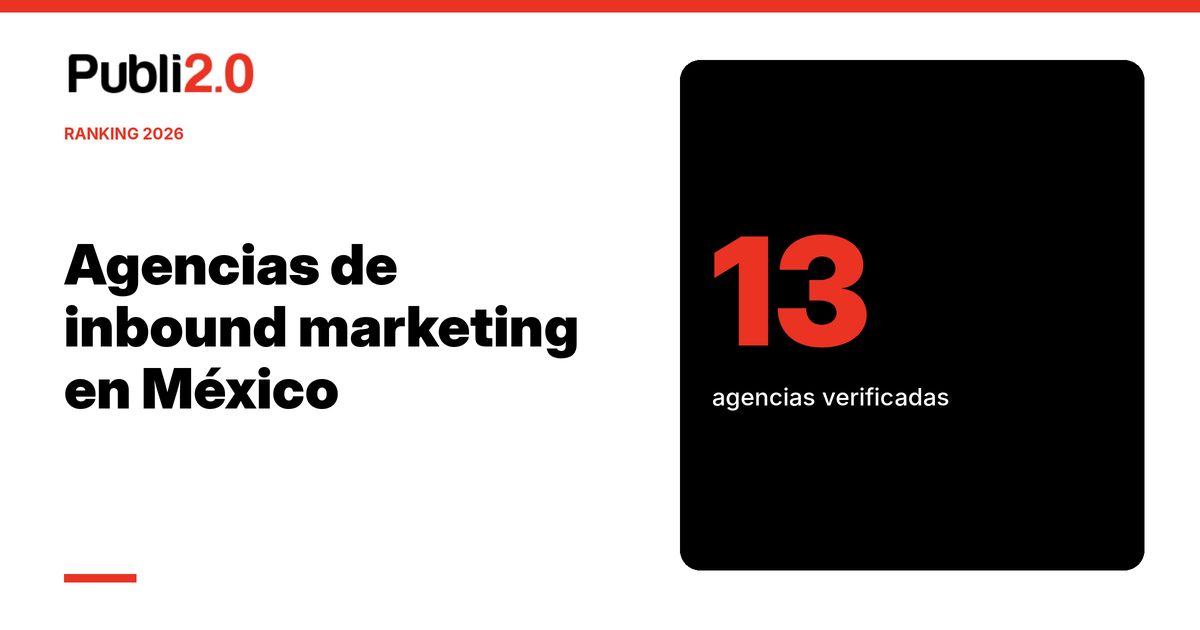
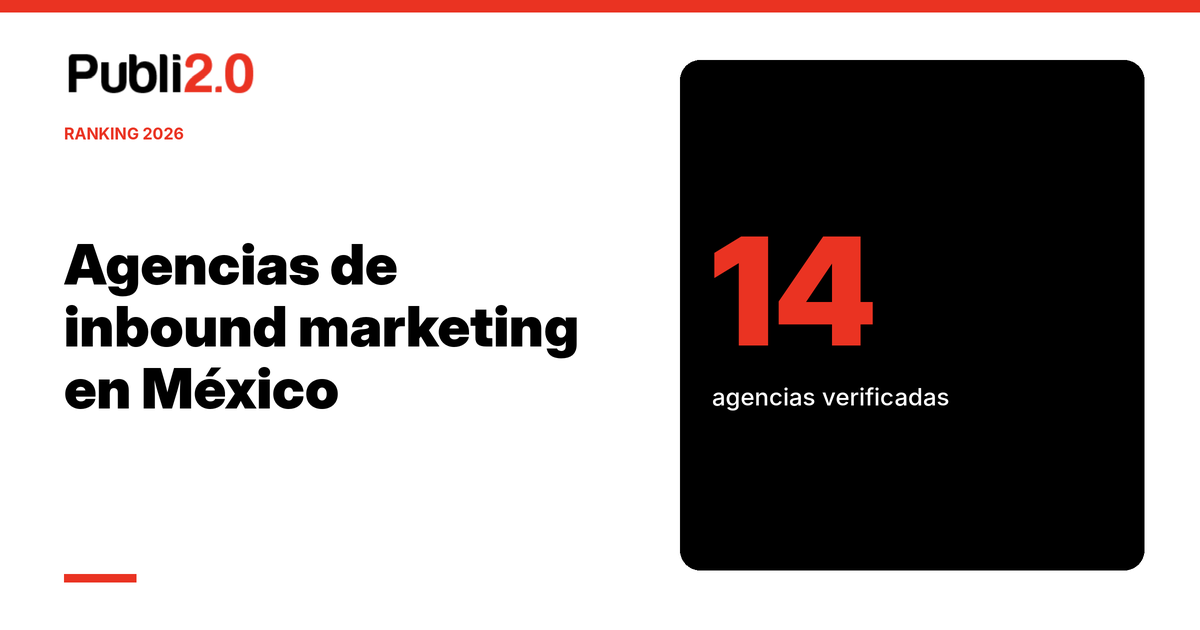
Ranking inbound México: agrega Inbound México (14 agencias)
Nuevo grupo de agencias de inbound agnósticas de plataforma, con
Inbound México. Actualiza título, extracto, resumen, tabla, FAQ y
portada. Corrige el conteo de partners en el resumen (11, no 10).

Claude-Session: https://claude.ai/code/session_0138o7zAsczbeHHxFBvC8f1p

Changed region(s): [[0.6475, 0.3619, 0.74, 0.573]]

diff --git a/content/rankings/agencias-inbound-marketing-mexico.md b/content/rankings/agencias-inbound-marketing-mexico.md
@@ -1,9 +1,9 @@
 ---
-title: "Agencia de inbound marketing en México: 13 opciones verificadas 2026"
+title: "Agencia de inbound marketing en México: 14 opciones verificadas 2026"
 slug: agencias-inbound-marketing-mexico
 type: post
 status: publish
-excerpt: "¿Buscas agencia de inbound marketing en México? 13 agencias verificadas en el directorio de HubSpot, qué incluye un retainer y cuándo no te conviene."
+excerpt: "¿Buscas agencia de inbound marketing en México? 14 agencias verificadas, con y sin HubSpot, qué incluye un retainer y cuándo no te conviene."
 categories: [rankings]
 tags: [inbound marketing, hubspot, agencias de marketing digital, marketing b2b, automatización de marketing]
 palabra_clave: "agencia de inbound marketing mexico"
@@ -11,7 +11,7 @@ portada: plantilla
 featured_image: images/agencias-inbound-marketing-mexico-portada.png
 featured_alt: "Ranking 2026 de agencias de inbound marketing en México"
 portada_kicker: "RANKING 2026"
-portada_stat: "13"
+portada_stat: "14"
 portada_stat_label: "agencias verificadas"
 ---
 
@@ -23,7 +23,7 @@ Aquí no te voy a decir cuál es "la mejor". Te voy a decir cuáles existen de v
 
 <div class="p20-tldr" markdown="1">
 **Si solo tienes 30 segundos:**
-- Seleccionamos 13 agencias con operación comprobable en México: 10 partners de HubSpot con perfil activo en su directorio oficial y 2 agencias de marketing digital con oficina en CDMX y área de automatización.
+- Seleccionamos 14 agencias con operación comprobable en México: 11 partners de HubSpot con perfil activo en su directorio oficial, 1 agencia de inbound agnóstica de plataforma y 2 agencias de marketing digital con oficina en CDMX y área de automatización.
 - El nivel de partner (Gold, Platinum, Diamond, Elite) mide ventas y retención de clientes en HubSpot, [según las reglas del propio programa](https://www.hubspot.com/partners/how-tiers-work?cid=482). No mide creatividad ni resultados de tu negocio.
 - Un retainer de inbound tiene sentido si vendes algo con ciclo de compra largo y puedes sostener contenido varios meses. Si necesitas ventas la semana que entra, no es tu herramienta.
 - El orden dentro de cada grupo es alfabético. Nadie pagó por aparecer.
@@ -152,6 +152,19 @@ Agencia con oficinas en Ciudad de México y Salamanca, España, además de Guate
 - **Ideal para:** empresas que quieren inbound con peso fuerte en posicionamiento orgánico
 - **Sitio:** [smartupdigital.com](https://smartupdigital.com/)
 
+## Agencias de inbound agnósticas de plataforma
+
+No todo el inbound se hace en HubSpot. Si ya tienes un CRM o un CMS que funciona (o no quieres amarrarte a una licencia), te conviene una agencia que aplique la metodología sobre las herramientas que ya pagas.
+
+### Inbound México
+
+Agencia mexicana de inbound marketing que trabaja con la metodología inbound sin casarse con una plataforma: según [su sitio](https://www.inbound.com.mx/), opera el CMS y el CRM que el cliente ya tiene o el que mejor le quede, en lugar de venderle una licencia. Publica un blog con más de 900 recursos sobre inbound, SEO y estrategia digital, y ofrece una primera sesión de asesoría gratuita, según su [página de contacto](https://www.inbound.com.mx/contacto/).
+
+- **Sede:** México
+- **Especialidad:** inbound marketing, SEO y contenido, con operación de CMS y CRM agnóstica
+- **Ideal para:** empresas que ya tienen CRM o sitio en otra plataforma (Salesforce, Zoho, WordPress, etc.) y quieren inbound sin migrar a HubSpot
+- **Sitio:** [inbound.com.mx](https://www.inbound.com.mx/)
+
 ## Agencias de marketing digital con área de inbound
 
 No todas las empresas necesitan una agencia "pura" de HubSpot. Estas dos son agencias de marketing digital con oficina en CDMX que incluyen inbound o automatización dentro de un servicio más amplio.
@@ -237,6 +250,7 @@ Primero, entiende qué significa el sello. Según las [reglas de HubSpot](https:
 | Clickplan | Partner Gold | Remota, México | Inbound, CRM y web |
 | Cliento | Solutions Partner | CDMX | Marketing, ventas y servicio |
 | Smartup | Solutions Partner | CDMX y Salamanca | Inbound y SEO |
+| Inbound México | Inbound agnóstica | México | Inbound, SEO y CRM sin licencia atada |
 | Elogia | Marketing digital | Polanco, CDMX | Comercio digital e inbound |
 | t2ó | Marketing digital | Polanco, CDMX | Performance y automatización |
 
@@ -270,7 +284,7 @@ Pide que te muestren en qué sitios apareció tu anuncio y excluye los que no va
 
 ### ¿Qué hace una agencia de inbound marketing?
 
-Diseña y opera un sistema para que los clientes te encuentren: contenido, SEO, páginas de conversión, correos automatizados y un CRM que pasa a ventas los contactos listos para comprar. La mayoría en México trabaja sobre HubSpot.
+Diseña y opera un sistema para que los clientes te encuentren: contenido, SEO, páginas de conversión, correos automatizados y un CRM que pasa a ventas los contactos listos para comprar. La mayoría en México trabaja sobre HubSpot, pero también hay agencias que aplican la metodología sobre el CRM y el CMS que ya tienes.
 
 ### ¿Qué significa que una agencia sea partner Elite o Diamond de HubSpot?
 
